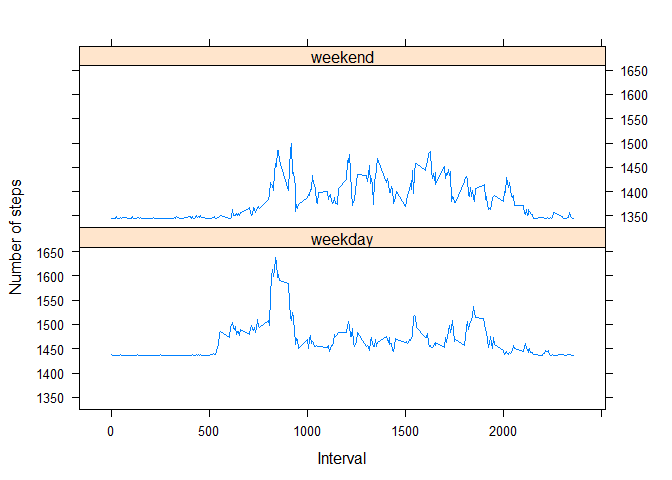
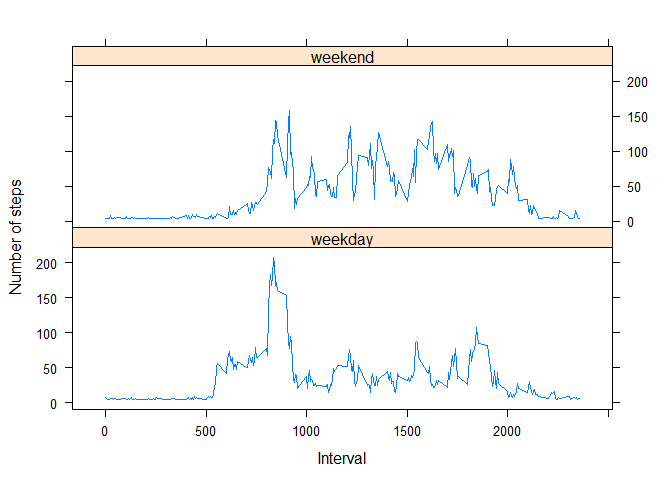
Try again.PA 1 commit.

diff --git a/PA1_template.html b/PA1_template.html
@@ -140,37 +140,39 @@ sum(v)</code></pre>
 <pre><code>## [1] 2304</code></pre>
 <p>You need to define a strategy. This example is where we take the average of the day in case of a NA.</p>
 <pre class="r"><code>meanday&lt;-mean(h$steps,na.rm=TRUE)
-c&lt;-rep(0,times=nrow(act))
-for (i in 1:nrow(act)){ 
-    if (is.na(act[i,1,])==TRUE){c[i]&lt;-meanday} else {c[i]&lt;-act[i,1]}
-}
-c&lt;-as.numeric(c)</code></pre>
-<p>The new dataset with the imputed values is:</p>
-<pre class="r"><code>new_data&lt;-cbind(c,act)
-colnames(new_data)&lt;-c(&quot;steps_imputed&quot;,&quot;steps&quot;,&quot;date&quot;,&quot;interval&quot;,&quot;day&quot;)</code></pre>
-<p>The histogram of the total number of steps taken each day:</p>
-<pre class="r"><code>v&lt;-aggregate(steps_imputed~date,new_data,sum)
 
-step_hist&lt;-ggplot(v,aes(steps_imputed))
+act1&lt;-mutate(activity,na_obs=ifelse((is.na(activity$steps)==TRUE),1,0))
+
+y&lt;-filter(act1,na_obs==1)
+y$steps&lt;-0
+na_sum&lt;-aggregate(steps~date,y,sum)
+na_sum$steps&lt;-meanday
+x&lt;-filter(act1,na_obs==0)
+sum_x&lt;-aggregate(steps~date,x,sum)</code></pre>
+<p>The new dataset with the imputed values is:</p>
+<pre class="r"><code>new_data&lt;-rbind(na_sum,sum_x)</code></pre>
+<p>The histogram of the total number of steps taken each day:</p>
+<pre class="r"><code>step_hist&lt;-ggplot(new_data,aes(steps))
 step_hist+geom_histogram(fill=&quot;darkgreen&quot;)+xlab(&quot;Steps&quot;)+labs(title=&quot;Histogram of total number of steps\n&quot;)</code></pre>
 <pre><code>## stat_bin: binwidth defaulted to range/30. Use 'binwidth = x' to adjust this.</code></pre>
[1 lines of base64/hex data omitted]
-<p>Regarding the appearance of the histogram above this is because that on 1.october 2012 there was no observations and thereby the histogram will have two bars. The mean and median is:</p>
-<pre class="r"><code>mean(v$steps_imputed)</code></pre>
-<pre><code>## [1] 415998.5</code></pre>
-<pre class="r"><code>median(v$steps_imputed)</code></pre>
-<pre><code>## [1] 11458</code></pre>
-<p>The estimates differ from the first part.The reason for this is that on the 1. october 2012 there was no observations the entire day and thereby the imputation will overwrite NA to the mean from the first day.</p>
[1 lines of base64/hex data omitted]
+<p>The mean and median is:</p>
+<pre class="r"><code>mean(new_data$steps)</code></pre>
+<pre><code>## [1] 10766.19</code></pre>
+<pre class="r"><code>median(new_data$steps)</code></pre>
+<pre><code>## [1] 10766.19</code></pre>
+<p>The estimates differ from the first part.</p>
 </div>
 <div id="are-there-differences-in-activity-patterns-between-weekdays-and-weekends" class="section level2">
 <h2>Are there differences in activity patterns between weekdays and weekends?</h2>
 <p>Definition of a new variable. I use the mutate function. I have already made a variable day with use of the wday function (wday equals 1 on sunday and 7 on saturday).</p>
-<pre class="r"><code>act_new&lt;-mutate(new_data,weekday=(ifelse((day==1)|(day==7),&quot;weekend&quot;,&quot;weekday&quot;)))</code></pre>
+<pre class="r"><code>act_new&lt;-mutate(act,weekday=(ifelse((day==1)|(day==7),&quot;weekend&quot;,&quot;weekday&quot;)))
+act_new$steps&lt;-ifelse(is.na(act_new$steps)==TRUE,mean(new_data$steps)/288,act_new$steps)</code></pre>
 <p>first I find total number of steps for each interval and for each type of day (weekday/weekend):</p>
-<pre class="r"><code>total_steps1&lt;-aggregate(steps_imputed~interval+weekday,act_new,mean)</code></pre>
-<p>For making the histogram I use the lattice plotning system:</p>
-<pre class="r"><code>xyplot(steps_imputed~interval|weekday,type=&quot;l&quot;,data=total_steps1,layout=c(1,2),xlab=&quot;Interval&quot;, ylab=&quot;Number of steps&quot;)</code></pre>
[1 lines of base64/hex data omitted]
+<pre class="r"><code>total_steps1&lt;-aggregate(steps~interval+weekday,act_new,mean)</code></pre>
+<p>For making the timeseries plot I use the lattice plotning system:</p>
+<pre class="r"><code>xyplot(steps~interval|weekday,type=&quot;l&quot;,data=total_steps1,layout=c(1,2),xlab=&quot;Interval&quot;, ylab=&quot;Number of steps&quot;)</code></pre>
[1 lines of base64/hex data omitted]
 </div>
 
 

diff --git a/PA1_template.md b/PA1_template.md
@@ -1,68 +1,102 @@
----
-title: 'Reproducible Research: Peer Assessment 1'
-output:
-  html_document:
-    keep_md: yes
-  pdf_document: default
----
+# Reproducible Research: Peer Assessment 1
 
 
 ## Loading and preprocessing the data
 
 I use the packages dplyr, lubridate and ggplot2 and also lattice.I only use the lattice packages for last exercise.
 
-```{r echo=FALSE}
-require(dplyr)
-require(lubridate)
-require(ggplot2)
-require(lattice)
+
+```
+## Loading required package: dplyr
+## 
+## Attaching package: 'dplyr'
+## 
+## The following objects are masked from 'package:stats':
+## 
+##     filter, lag
+## 
+## The following objects are masked from 'package:base':
+## 
+##     intersect, setdiff, setequal, union
+## 
+## Loading required package: lubridate
+## Loading required package: ggplot2
 ```
 Loading the file is done with:
 
-```{r echo=TRUE}
+
+```r
 activity<-read.csv("./activity.csv",sep=",",dec=".",header = TRUE)
 date<-ymd(activity$date)
 activity<-as.data.frame(activity)
 ```
 
 I use mutate do make new day variable with wday function from lubridate.
-```{r echo=TRUE}
 
+```r
 act<-mutate(activity,day=wday(date,label=FALSE))
-
 ```
 ## What is mean total number of steps taken per day?
 
 The number of steps taken per day is: 
-```{r echo=TRUE}
 
-
+```r
 tot<-aggregate(steps~day,act,sum)
 print(tot,type="html")
+```
 
 ```
+##   day steps
+## 1   1 85944
+## 2   2 69824
+## 3   3 80546
+## 4   4 94326
+## 5   5 65702
+## 6   6 86518
+## 7   7 87748
+```
 And the total is: 
-```{r echo=TRUE}
-sum(tot, na.rm=TRUE)
 
+```r
+sum(tot, na.rm=TRUE)
+```
+
+```
+## [1] 570636
 ```
 
 I use the ggplot function to make the histogram of the total number of steps taken each day is: 
-```{r echo=TRUE}
+
+```r
 h<-aggregate(steps~date,act,sum)
 
 step_hist<-ggplot(h,aes(steps))
 step_hist+geom_histogram(fill="darkgreen")+xlab("Steps")+labs(title="Histogram of total number of steps\n")
-
-
+```
 
 ```
+## stat_bin: binwidth defaulted to range/30. Use 'binwidth = x' to adjust this.
+```
+
+![](PA1_template_files/figure-html/unnamed-chunk-6-1.png) 
 
 The mean and median of the total number of steps taken per day is:
 
-```{r echo=TRUE}
+
+```r
 mean(h$steps,na.rm=TRUE)
+```
+
+```
+## [1] 10766.19
+```
+
+```r
 median(h$steps,na.rm=TRUE)
+```
+
+```
+## [1] 10765
 ```
 
 
@@ -71,22 +105,34 @@ median(h$steps,na.rm=TRUE)
 
 
 The time series plot of the 5-minute interval (x-axis) and the average number of steps taken, averaged across all days (y-axis)
-```{r echo=TRUE}
+
+```r
 avg_steps<-aggregate(steps~interval,act,mean)
 time_avg<-ggplot(avg_steps, aes(interval,steps))
 time_avg+geom_line()+labs(title="Average number of steps\n")+labs(x="Interval")+labs(y="Average Steps")
 ```
 
+![](PA1_template_files/figure-html/unnamed-chunk-8-1.png) 
+
 Which 5-minutes interval, on average acorss all the days in the dataset, 
 contains the maximum of steps:
-```{r echo=TRUE}
+
+```r
 loc<-which.max(avg_steps$steps)
 avg_steps[loc,1,]
+```
 
 ```
+## [1] 835
+```
 And the maximum average number of steps is: 
-```{r echo=TRUE}
+
+```r
 avg_steps[loc,2,]
+```
+
+```
+## [1] 206.1698
 ```
 
 
@@ -95,13 +141,18 @@ avg_steps[loc,2,]
 
 The total number of missing values in the dataset is:
 
-```{r echo=TRUE}
+
+```r
 v<-is.na(act$step)
 sum(v)
+```
 
 ```
+## [1] 2304
+```
 You need to define a strategy. This example is where we take the average of the day in case of a NA. 
-```{r echo=TRUE}
+
+```r
 meanday<-mean(h$steps,na.rm=TRUE)
 
 act1<-mutate(activity,na_obs=ifelse((is.na(activity$steps)==TRUE),1,0))
@@ -112,31 +163,44 @@ na_sum<-aggregate(steps~date,y,sum)
 na_sum$steps<-meanday
 x<-filter(act1,na_obs==0)
 sum_x<-aggregate(steps~date,x,sum)
-
-
-
 ```
 
 The new dataset with the imputed values is: 
-```{r echo=TRUE}
 
+```r
 new_data<-rbind(na_sum,sum_x)
 ```
 
 The histogram of the total number of steps taken each day: 
-```{r echo=TRUE}
 
+```r
 step_hist<-ggplot(new_data,aes(steps))
 step_hist+geom_histogram(fill="darkgreen")+xlab("Steps")+labs(title="Histogram of total number of steps\n")
+```
 
 ```
+## stat_bin: binwidth defaulted to range/30. Use 'binwidth = x' to adjust this.
+```
+
+![](PA1_template_files/figure-html/unnamed-chunk-14-1.png) 
 
 The mean and median is: 
 
-```{r echo=TRUE}
-mean(new_data$steps)
-median(new_data$steps)
 
+```r
+mean(new_data$steps)
+```
+
+```
+## [1] 10766.19
+```
+
+```r
+median(new_data$steps)
+```
+
+```
+## [1] 10766.19
 ```
 
 The estimates differ from the first part. 
@@ -146,20 +210,22 @@ The estimates differ from the first part.
 
 Definition of a new variable. I use the mutate function. I have already made a variable day with use of the wday function (wday equals 1 on sunday and 7 on saturday).
 
-```{r echo=TRUE}
 
-
+```r
 act_new<-mutate(act,weekday=(ifelse((day==1)|(day==7),"weekend","weekday")))
 act_new$steps<-ifelse(is.na(act_new$steps)==TRUE,mean(new_data$steps)/288,act_new$steps)
-
 ```
 first I find total number of steps for each interval and for each type of day (weekday/weekend):
-```{r echo=TRUE}
+
+```r
 total_steps1<-aggregate(steps~interval+weekday,act_new,mean)
 ```
 For making the timeseries plot I use the lattice plotning system:
 
 
-```{r echo=TRUE}
+
+```r
 xyplot(steps~interval|weekday,type="l",data=total_steps1,layout=c(1,2),xlab="Interval", ylab="Number of steps")
 ```
+
+![](PA1_template_files/figure-html/unnamed-chunk-18-1.png) 
